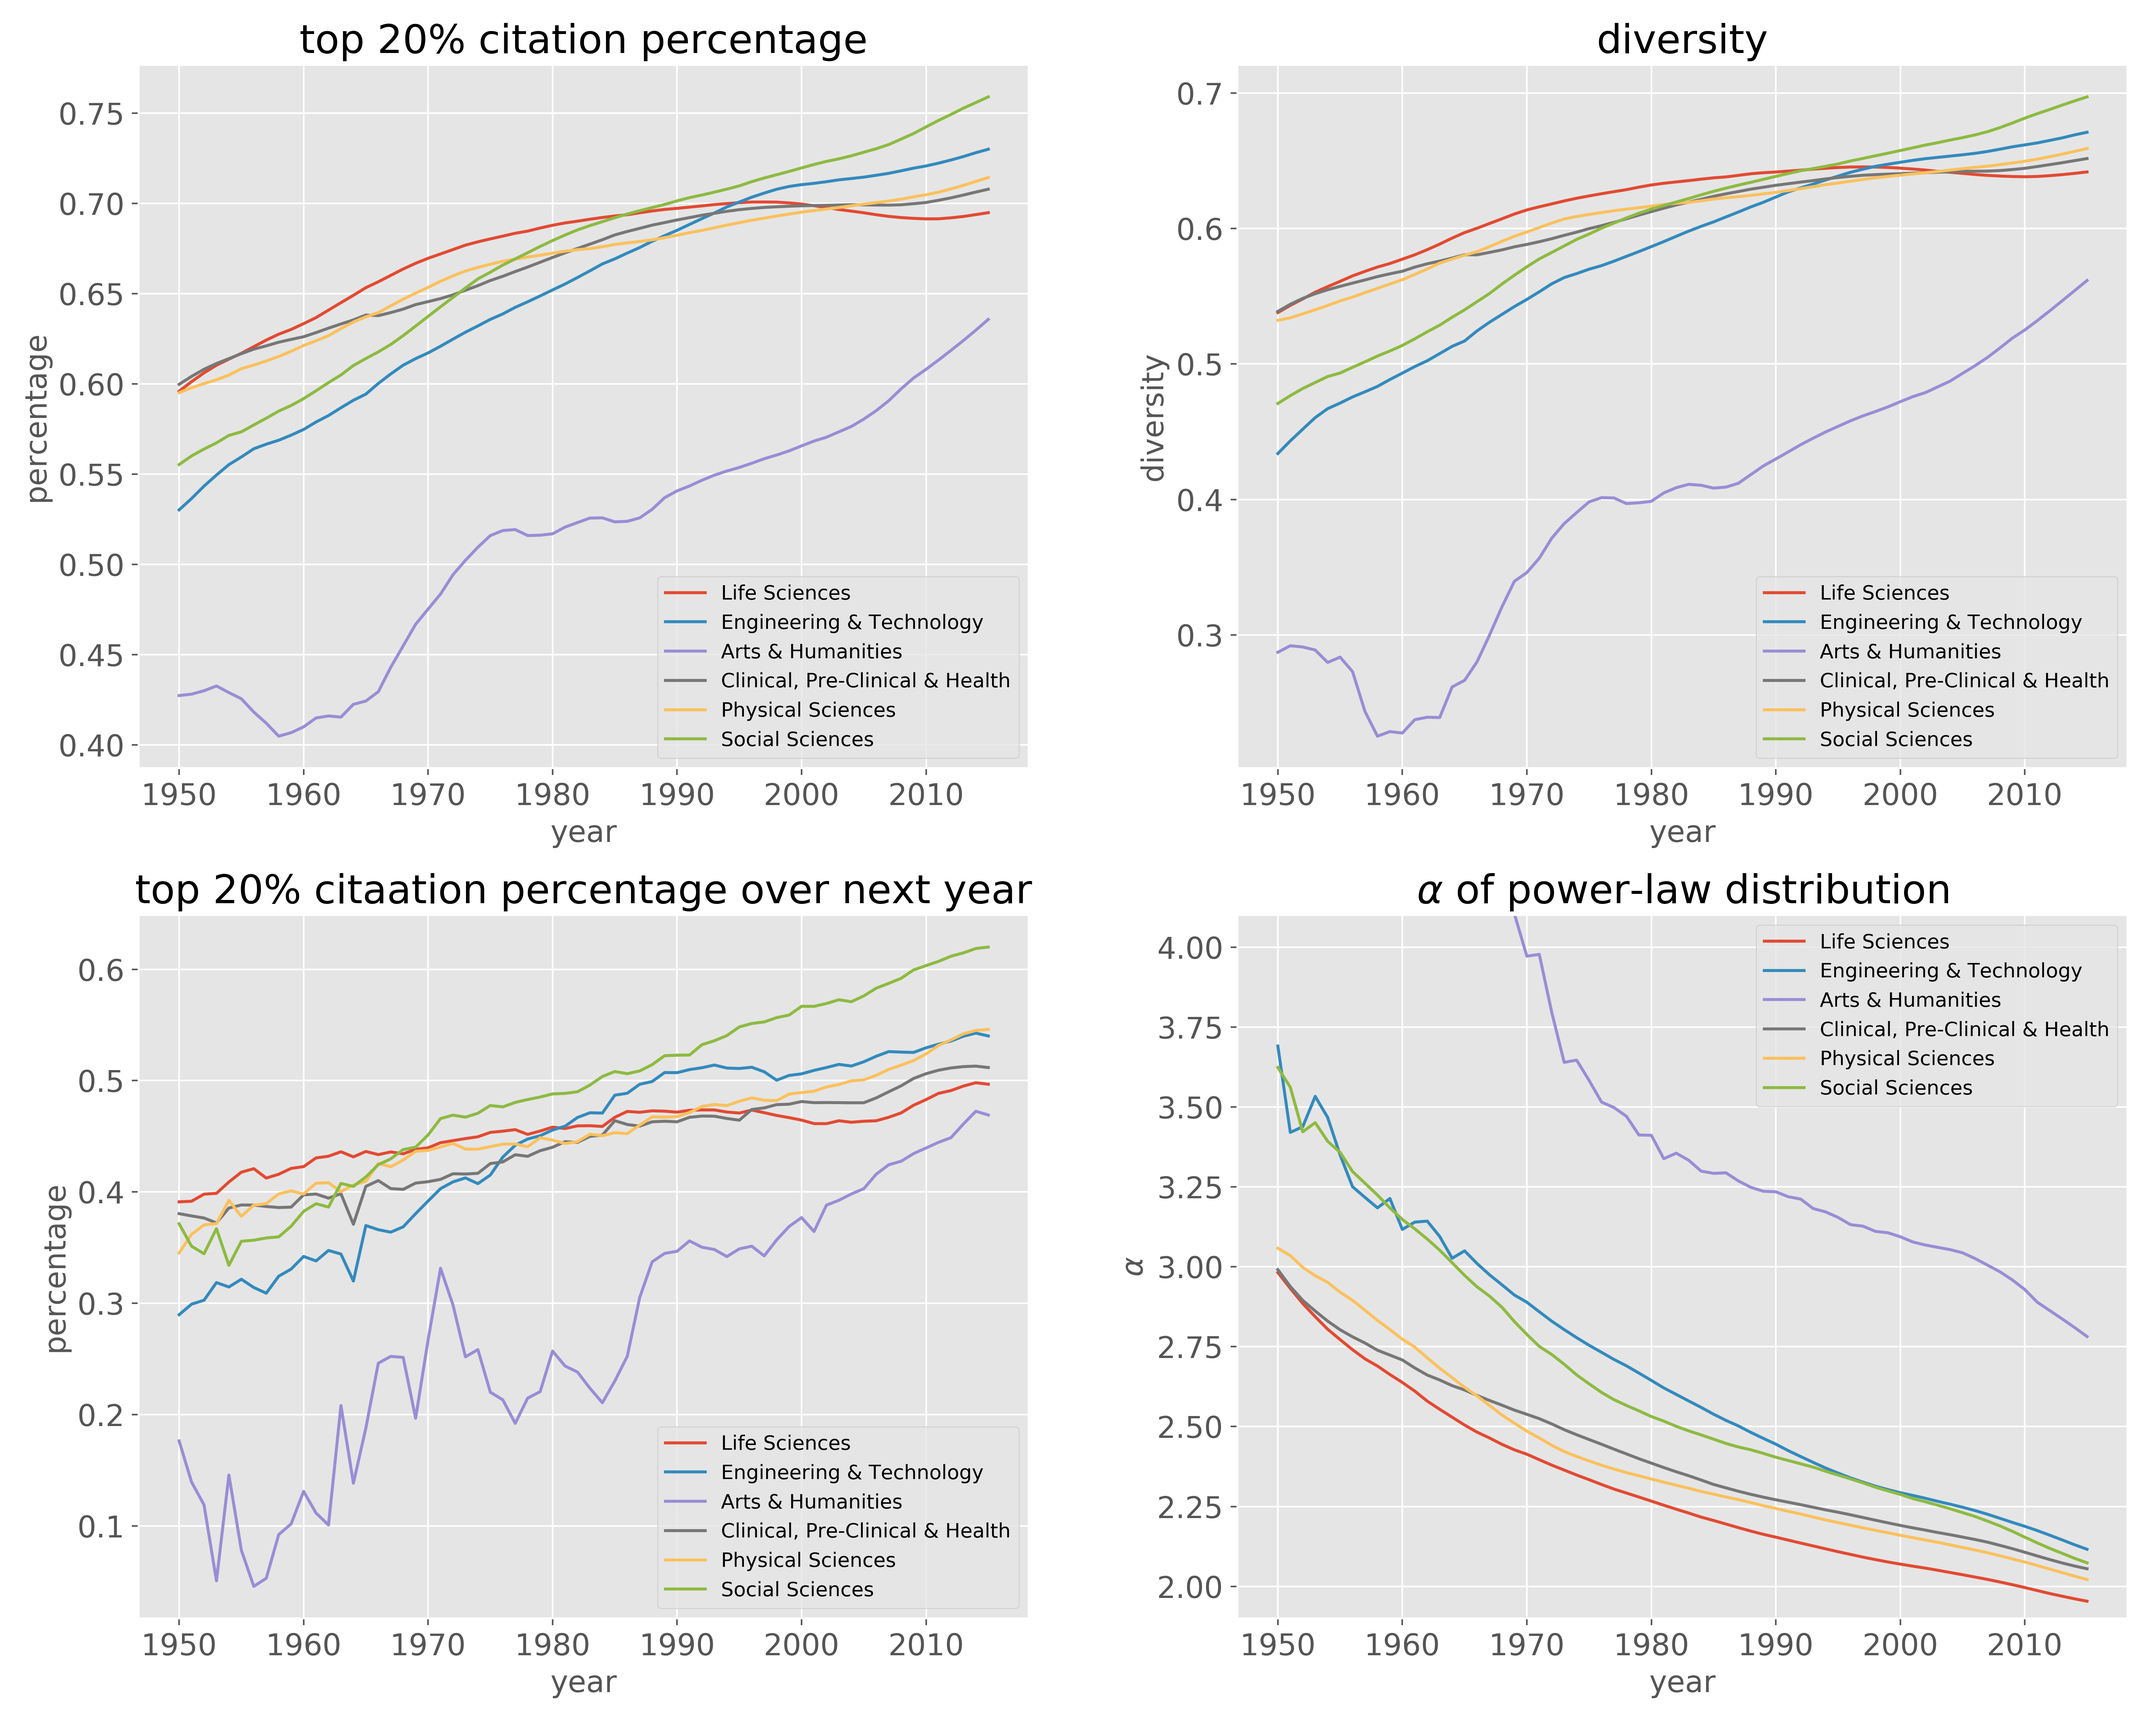
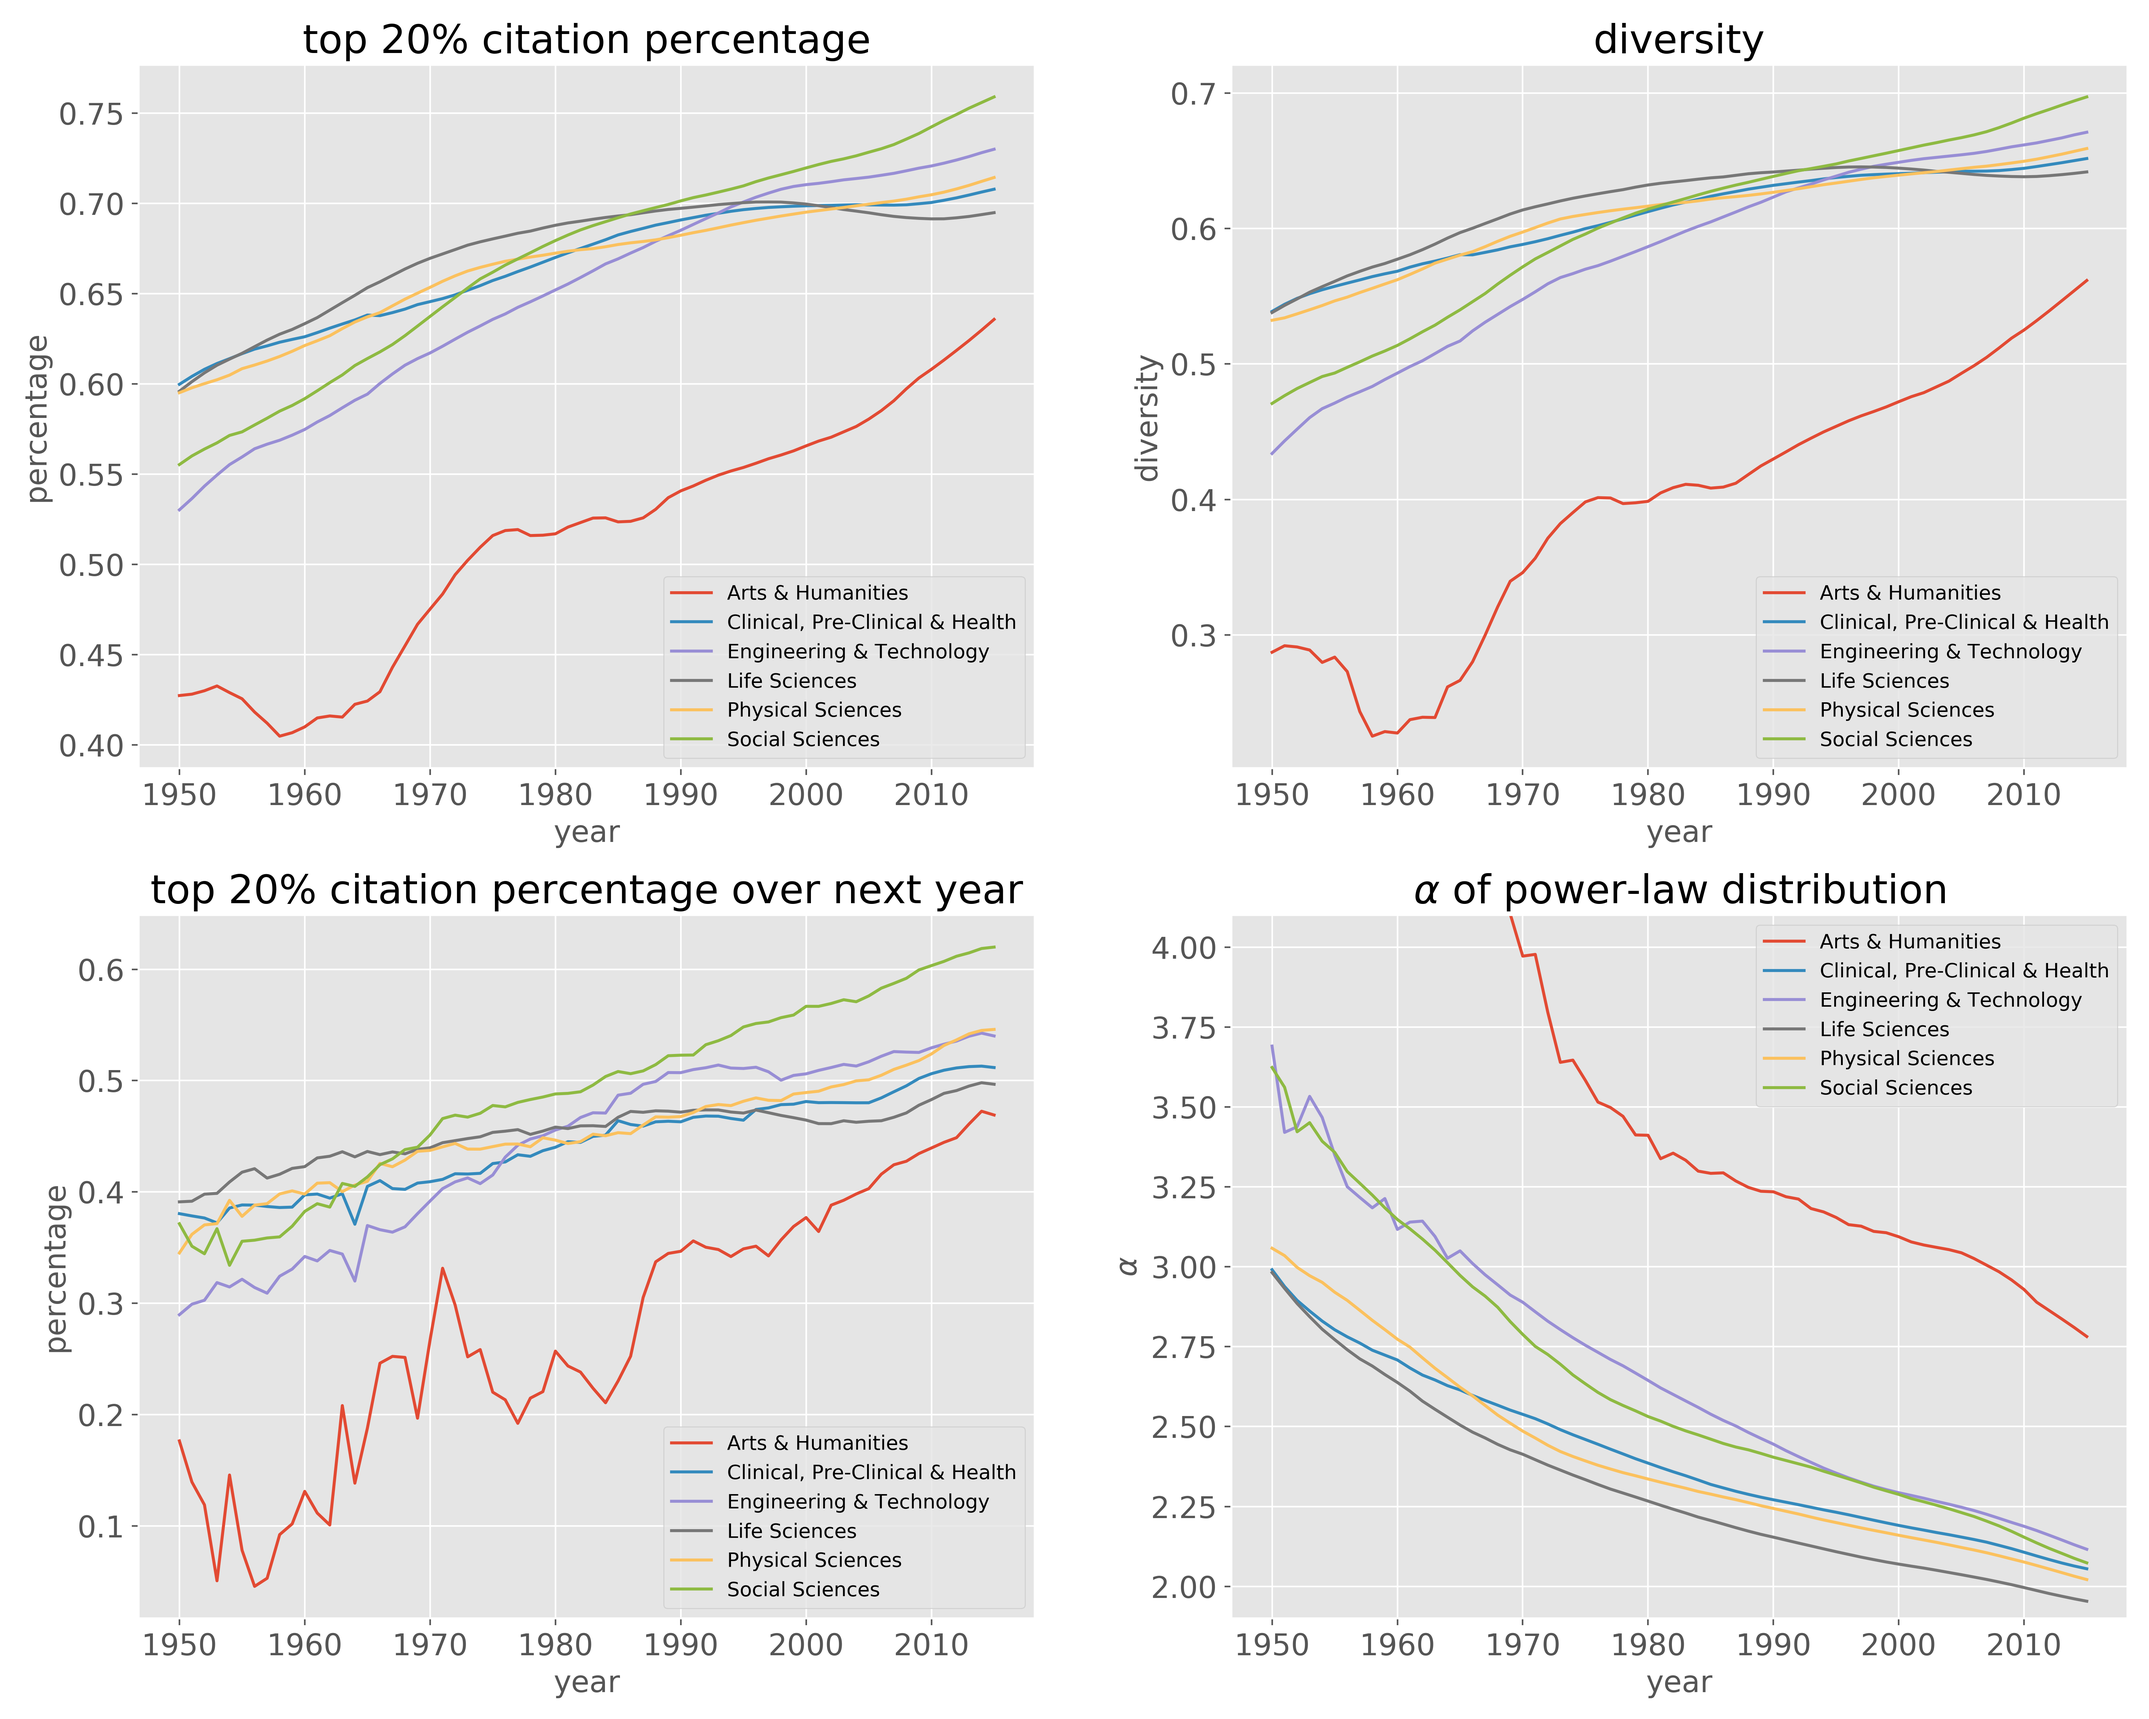
add

diff --git a/citation_inequalty.py b/citation_inequalty.py
@@ -152,7 +152,7 @@ def plot_diversity_figs():
 
 
     ax = axes[0,0]
-    for i,subj in enumerate(subj_type_xys.keys()):
+    for i,subj in enumerate(sorted(subj_type_xys.keys())):
 
         xs = subj_type_xys[subj]['xs']
         top20_percents = subj_type_xys[subj]['top20']
@@ -172,7 +172,7 @@ def plot_diversity_figs():
 
 
     ax = axes[0,1]
-    for i,subj in enumerate(subj_type_xys.keys()):
+    for i,subj in enumerate(sorted(subj_type_xys.keys())):
 
         xs = subj_type_xys[subj]['xs']
         divs = subj_type_xys[subj]['div']
@@ -192,7 +192,7 @@ def plot_diversity_figs():
 
 
     ax = axes[1,0]
-    for i,subj in enumerate(subj_type_xys.keys()):
+    for i,subj in enumerate(sorted(subj_type_xys.keys())):
 
         xs = subj_type_xys[subj]['xs']
         divs = subj_type_xys[subj]['ny_top20']
@@ -200,7 +200,7 @@ def plot_diversity_figs():
         ax.plot(xs,divs,label='{}'.format(subj))
 
 
-    ax.set_title('top 20% citaation percentage over next year')
+    ax.set_title('top 20% citation percentage over next year')
 
     ax.set_xlabel('year')
 
@@ -210,7 +210,7 @@ def plot_diversity_figs():
 
 
     ax = axes[1,1]
-    for i,subj in enumerate(subj_type_xys.keys()):
+    for i,subj in enumerate(sorted(subj_type_xys.keys())):
 
         xs = subj_type_xys[subj]['xs']
         divs = subj_type_xys[subj]['powlaw']
@@ -408,7 +408,7 @@ def field_year_zero_percentage():
 
     subj_xys = {}
 
-    for subj in subj_year_num.keys():
+    for subj in sorted(subj_year_num.keys()):
 
         xs = []
         ys = []
@@ -433,18 +433,131 @@ def field_year_zero_percentage():
     logging.info('data saved to data/subj_num_zero_percents.json')
 
 
+def plot_zero_percents():
+
+    subj_xys = json.loads(open('subj_num_zero_percents.json').read())
+
+    plt.figure(figsize=(8,6))
+
+    for subj in sorted(subj_xys.keys()):
+
+        xs,ys,zs,subj_total = subj_xys[subj]
+
+        plt.plot(xs,ys,label=subj)
+
+    plt.xlabel('year')
+    plt.ylabel('number of papers')
+    plt.yscale('log')
+
+    plt.legend()
+
+    plt.savefig('subj_year_num.png',dpi=400)
+
+    plt.figure(figsize=(8,6))
+
+    for subj in sorted(subj_xys.keys()):
+
+        xs,ys,zs,subj_total = subj_xys[subj]
+
+        plt.plot(xs,zs,label=subj)
+
+    plt.xlabel('year')
+
+    plt.ylabel('zero cited papers percentage')
+
+    plt.ylim(0,1)
+
+    plt.legend(fontsize=6)
+
+    plt.savefig('subj_zero_percents.png',dpi=400)
+
+
+
+def plot_citation_of_subj():
+
+    logging.info('loading data...')
+
+    topsubj_year_pid_citnum = json.loads(open('data/topsubj_year_pid_citnum.json').read())
+
+
+    logging.info('data loading done.')
+    ###Physical Sciences
+
+    ## year  2000 2005 2010
+
+    _2000_pid_citnum = topsubj_year_pid_citnum['Physical Sciences']['2000']
+
+    _2005_pid_citnum = topsubj_year_pid_citnum['Physical Sciences']['2000']
+
+    _2005_pid_citnum = topsubj_year_pid_citnum['Physical Sciences']['2000']
+
+    fig,ax = plt.subplots(figsize=(10,8))
+
+    plot_cit_dis_with_power_law(_2000_pid_citnum,ax,c='b',label='year 2000')
+    plot_cit_dis_with_power_law(_2005_pid_citnum,ax,c='r',label='year 2005')
+    plot_cit_dis_with_power_law(_2010_pid_citnum,ax,c='g',label='year 2010')
+
+    ax.legend()
+
+    ax.set_xlabel('number of citations')
+
+    ax.set_ylabel('P(x)')
+
+    ax.set_xscale('log')
+    ax.set_yscale('log')
+
+    plt.tight_layout()
+
+    plt.savefig('fig/Physical_cd.png',dpi=400)
+
+    logging.info('fig saved to fig/Physical_cd.png.')
+
+
+
+
+
+
+def plot_cit_dis_with_power_law(pid_citnum,ax,c,label):
+
+    values = pid_citnum.keys()
+
+    # v_counter = Counter(values)
+
+    # xs = []
+    # ys = []
+    # for cn in sorted(v_counter.keys()):
+    #     xs.append(int(cn))
+    #     ys.append(v_counter[cn])
+
+    # ys = 
+
+    fit = powerlaw.Fit(data)
+
+    fit.plot_pdf(c=c,linewidth = 2,ax=ax,label=label)
+    fit.power_law.plot_pdf(c=c,linewidth=2,ax=ax,linestyle='--')
+
+
+
+
+
+
 if __name__ == '__main__':
     # stat_subj_paper_year_citnum()
 
     # top20_percent_trend_over_time()
 
-    field_year_zero_percentage()
+    # field_year_zero_percentage()
 
 
-    # plot_diversity_figs()
 
     # test_powlaw()
 
+    # plot_diversity_figs()
+
+
+    # plot_zero_percents()
+
+    plot_citation_of_subj()
 
 
 

diff --git a/citation_relations_subject.py b/citation_relations_subject.py
@@ -419,6 +419,8 @@ def paper_year_total_citnum(year_citnum):
 
 
 
+
+
 if __name__ == '__main__':
 
     ##需要研究的领域的论文id
